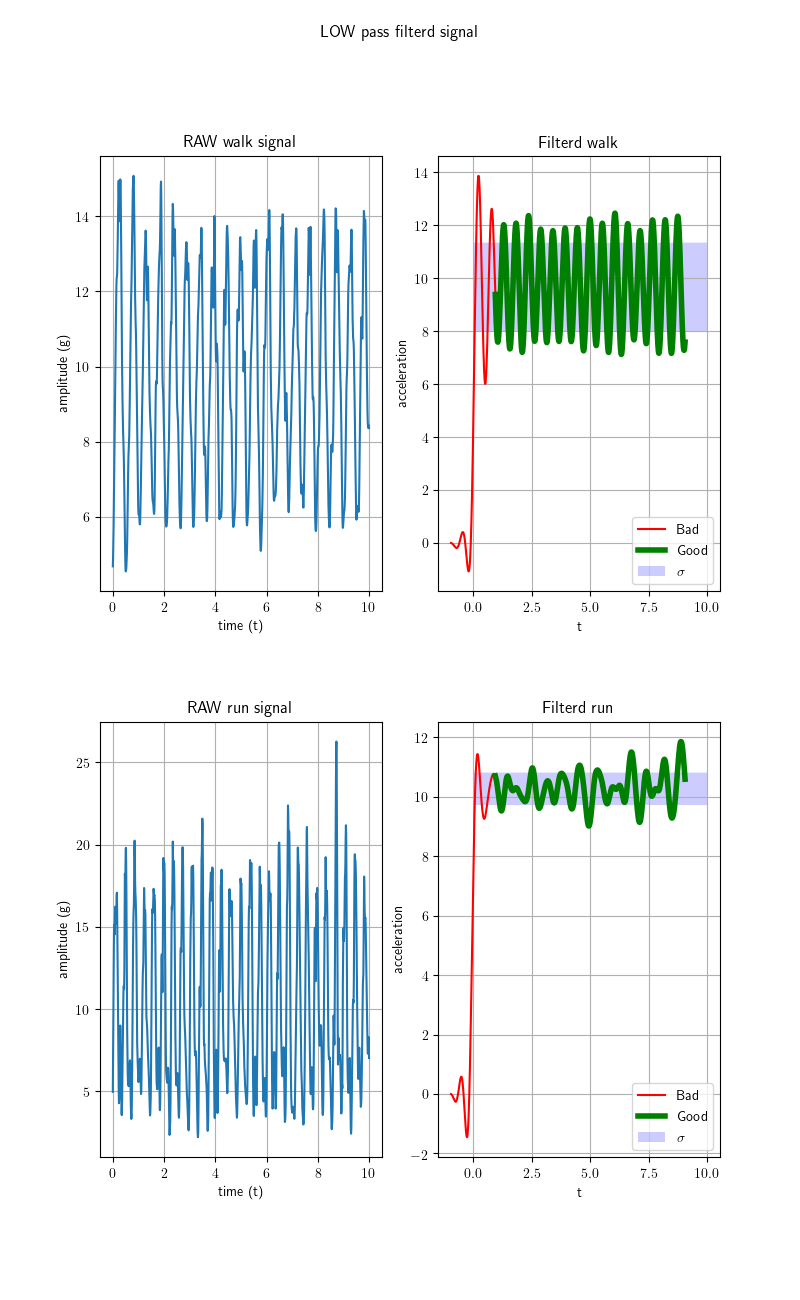
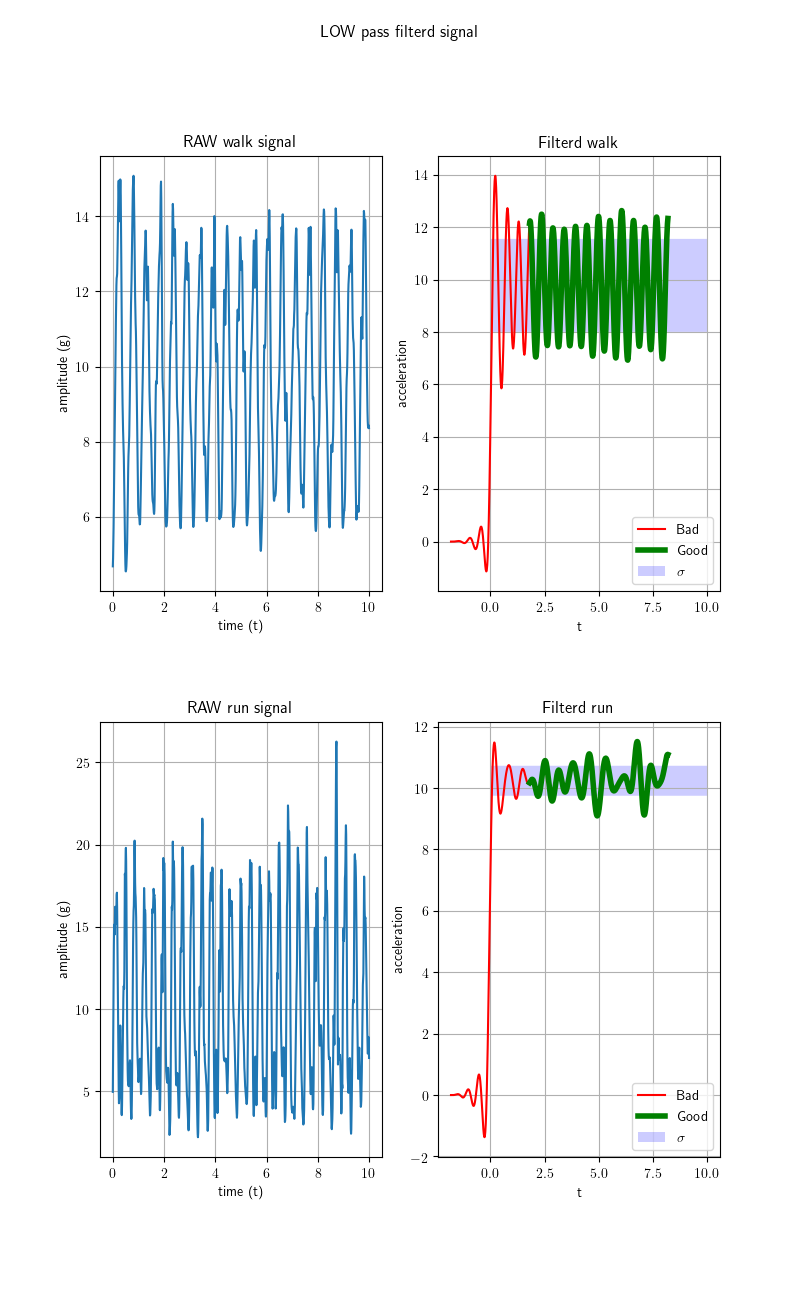
Cant

diff --git a/lti_system.py b/lti_system.py
@@ -1,7 +1,7 @@
 import numpy as np
 import matplotlib.pyplot as plt
 import seaborn as se
-from scipy.signal import kaiserord, lfilter, firwin, freqz
+from scipy.signal import kaiserord, lfilter, firwin, freqz, firls
 from plot import gen_frequesyresponse, movingmedian_plot, avrage_data
 from importdata import data
 
@@ -44,18 +44,22 @@ class fir_filter:
         count = 0
         print("ever loop")
         while self._N%2 == 0:
-            print("ever loop")
-            self._N, self._beta = kaiserord(self._ripple_db,self._width + count)
+            print("N = {} is even".format(self._N))
             count += 0.000001
-        #self._N, self._beta = kaiserord(self._ripple_db,self._width)
+            self._N, self._beta = kaiserord(self._ripple_db,self._width + count)
+        print("N = {} is od with with={}".format(self._N, self._width + count))
         self._ishigpass = higpas
         #Spectral inversion if higpass is true
         if self._ishigpass == True:
             print("Higpass filter init")
             print(self._N)
-            self._taps = firwin(self._N ,self._cutoff_hz/self._nyq_rate ,  pass_zero=False)
-            self._taps = -self._taps
-            self._taps[self._N//2] += 1
+            self._bands  = (0,self._cutoff_hz, self._cutoff_hz + 0.5, self._cutoff_hz + 1.0, self._cutoff_hz + 2, self._nyq_rate)
+            self._desierd = (0,0,1,1,0,0)
+            assert(len(self._bands) == len(self._desierd))
+            self._taps = firls(self._N, self._bands, self._desierd, nyq=self._nyq_rate)
+            # self._taps = firwin(self._N ,self._cutoff_hz/self._nyq_rate ,  pass_zero=False)
+            # self._taps = -self._taps
+            # self._taps[self._N//2] += 1
         else:
             self._taps = firwin(self._N,cutoff_hz/self._nyq_rate, window=(win,self._beta))
         self._freqz = freqz(self._taps, worN=8000)
@@ -151,7 +155,8 @@ class fir_filter:
         impulse[0] = 1
         x = np.arange(0,l)
         response = lfilter(self._taps,1,impulse)
-        plt.stem(x, response)
+        #plt.stem(x, response)
+        plt.plot(x, response)
         # plt.plot(x, np.sin(x))
         plt.ylabel('Amplitude')
         plt.xlabel(r'n (samples)')
@@ -230,11 +235,11 @@ def plot_lit_sytem(data, walk_run='walk', signalnr=4, cutoff_hz=2.0, savefig='pl
 if __name__ == '__main__':
     data = data()
     plt.rc('text', usetex=True)
-    higpa_cutoff_hz=2.8
-    # # --------- Lopass filterd signals------------
-    # fig=plt.figure(figsize=(8,13), tight_layout=False)
-    # fig.suptitle("LOW pass filterd signal")
-    # plot_filter_results(data, savefig="plot_lti_lopasl.png")
+    higpa_cutoff_hz=2.0
+    # --------- Lopass filterd signals------------
+    fig=plt.figure(figsize=(8,13), tight_layout=False)
+    fig.suptitle("LOW pass filterd signal")
+    plot_filter_results(data, savefig="plot_lti_lopasl.png")
     # --------- Highpass filterd signals------------
     fig=plt.figure(figsize=(8,13), tight_layout=False)
     fig.suptitle("HIGH pass filterd signal", fontsize=18)
@@ -242,13 +247,13 @@ if __name__ == '__main__':
 
 
     # # --------- Lopass filter plot ------------
-    # fig=plt.figure(figsize=(8,13), tight_layout=False)
-    # fig.suptitle("LOW pass filter")
-    # plot_lit_sytem(data,walk_run='run', signalnr=4, savefig='plot_system_lopass.png')
+    fig=plt.figure(figsize=(8,13), tight_layout=False)
+    fig.suptitle("LOW pass filter")
+    plot_lit_sytem(data,walk_run='run', signalnr=4, savefig='plot_system_lopass.png')
     # --------- Higpass filter plot ------------
-    # fig=plt.figure(figsize=(8,13), tight_layout=False)
-    # fig.suptitle("HIGH pass filter", fontsize=18, ha = 'center', va='top')
-    # plot_lit_sytem(data,walk_run='run', signalnr=4, savefig='plot_system_higpass.png', cutoff_hz=higpa_cutoff_hz, hp=True)
+    fig=plt.figure(figsize=(8,13), tight_layout=False)
+    fig.suptitle("HIGH pass filter", fontsize=18, ha = 'center', va='top')
+    plot_lit_sytem(data,walk_run='run', signalnr=4, savefig='plot_system_higpass.png', cutoff_hz=higpa_cutoff_hz, hp=True)
 
     # for key in data.keys():
     #     if key == 'walk':
@@ -260,5 +265,5 @@ if __name__ == '__main__':
     #         fir.plot_signals('signals of {}'.format(key),subplot=subplot)
     #         fir.plot_fir_coefficients(gain_subplot=subplot + 1)
 
-    plt.show()
+    #plt.show()
 
